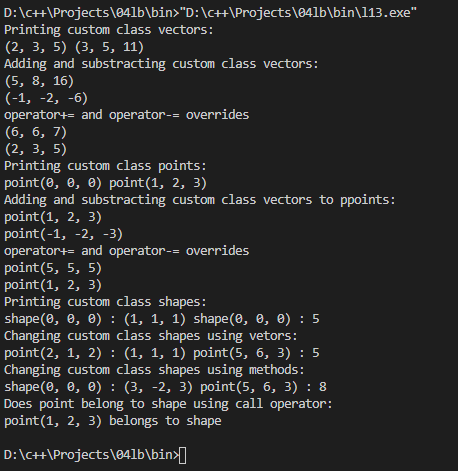
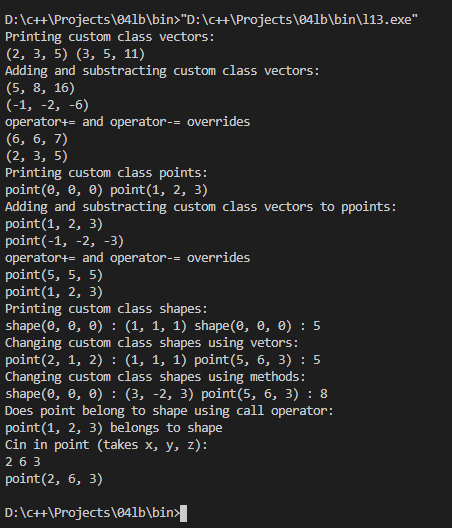
Minor fix

Changed region(s): [[0.0, 0.0, 0.9292, 0.9214], [0.0, 0.9512, 0.4336, 1.0], [0.6814, 0.5945, 0.7124, 0.6242]]

diff --git a/libs/mathlab/mathlab.hpp b/libs/mathlab/mathlab.hpp
@@ -189,6 +189,13 @@ namespace ag
         friend std::ostream &operator<<(std::ostream &os, const point<long> &v);
         friend std::ostream &operator<<(std::ostream &os, const point<long long> &v);
         friend std::ostream &operator<<(std::ostream &os, const point<long double> &v);
+
+        friend std::istream &operator>>(std::istream &os, point<int> &v);
+        friend std::istream &operator>>(std::istream &os, point<double> &v);
+        friend std::istream &operator>>(std::istream &os, point<float> &v);
+        friend std::istream &operator>>(std::istream &os, point<long> &v);
+        friend std::istream &operator>>(std::istream &os, point<long long> &v);
+        friend std::istream &operator>>(std::istream &os, point<long double> &v);
     };
 
     template <typename T>
@@ -264,6 +271,37 @@ namespace ag
     std::ostream &operator<<(std::ostream &os, const point<long double> &v)
     {
         os << "point(" << v.getX() << ", " << v.getY() << ", " << v.getZ() << ")";
+        return os;
+    }
+
+    std::istream &operator>>(std::istream &os, point<long double> &v)
+    {
+        os >> v.x >> v.y >> v.z;
+        return os;
+    }
+    std::istream &operator>>(std::istream &os, point<double> &v)
+    {
+        os >> v.x >> v.y >> v.z;
+        return os;
+    }
+    std::istream &operator>>(std::istream &os, point<float> &v)
+    {
+        os >> v.x >> v.y >> v.z;
+        return os;
+    }
+    std::istream &operator>>(std::istream &os, point<long> &v)
+    {
+        os >> v.x >> v.y >> v.z;
+        return os;
+    }
+    std::istream &operator>>(std::istream &os, point<long long> &v)
+    {
+        os >> v.x >> v.y >> v.z;
+        return os;
+    }
+    std::istream &operator>>(std::istream &os, point<int> &v)
+    {
+        os >> v.x >> v.y >> v.z;
         return os;
     }
 

diff --git a/projects/l13/main.cpp b/projects/l13/main.cpp
@@ -49,4 +49,8 @@ int main(int argc, char *argv[]){
     std::cout << "Does point belong to shape using call operator:" << std::endl;
     std::cout << "point(1, 2, 3) " << (sh2(1, 2, 3) ? ("belongs ") : ("doesn't belong ")) << "to shape" << std::endl;
 
+    ag::point<double> p3;
+    std::cout << "Cin in point (takes x, y, z):" << std::endl;
+    std::cin >> p3;
+    std::cout << p3 << std::endl;
 }
